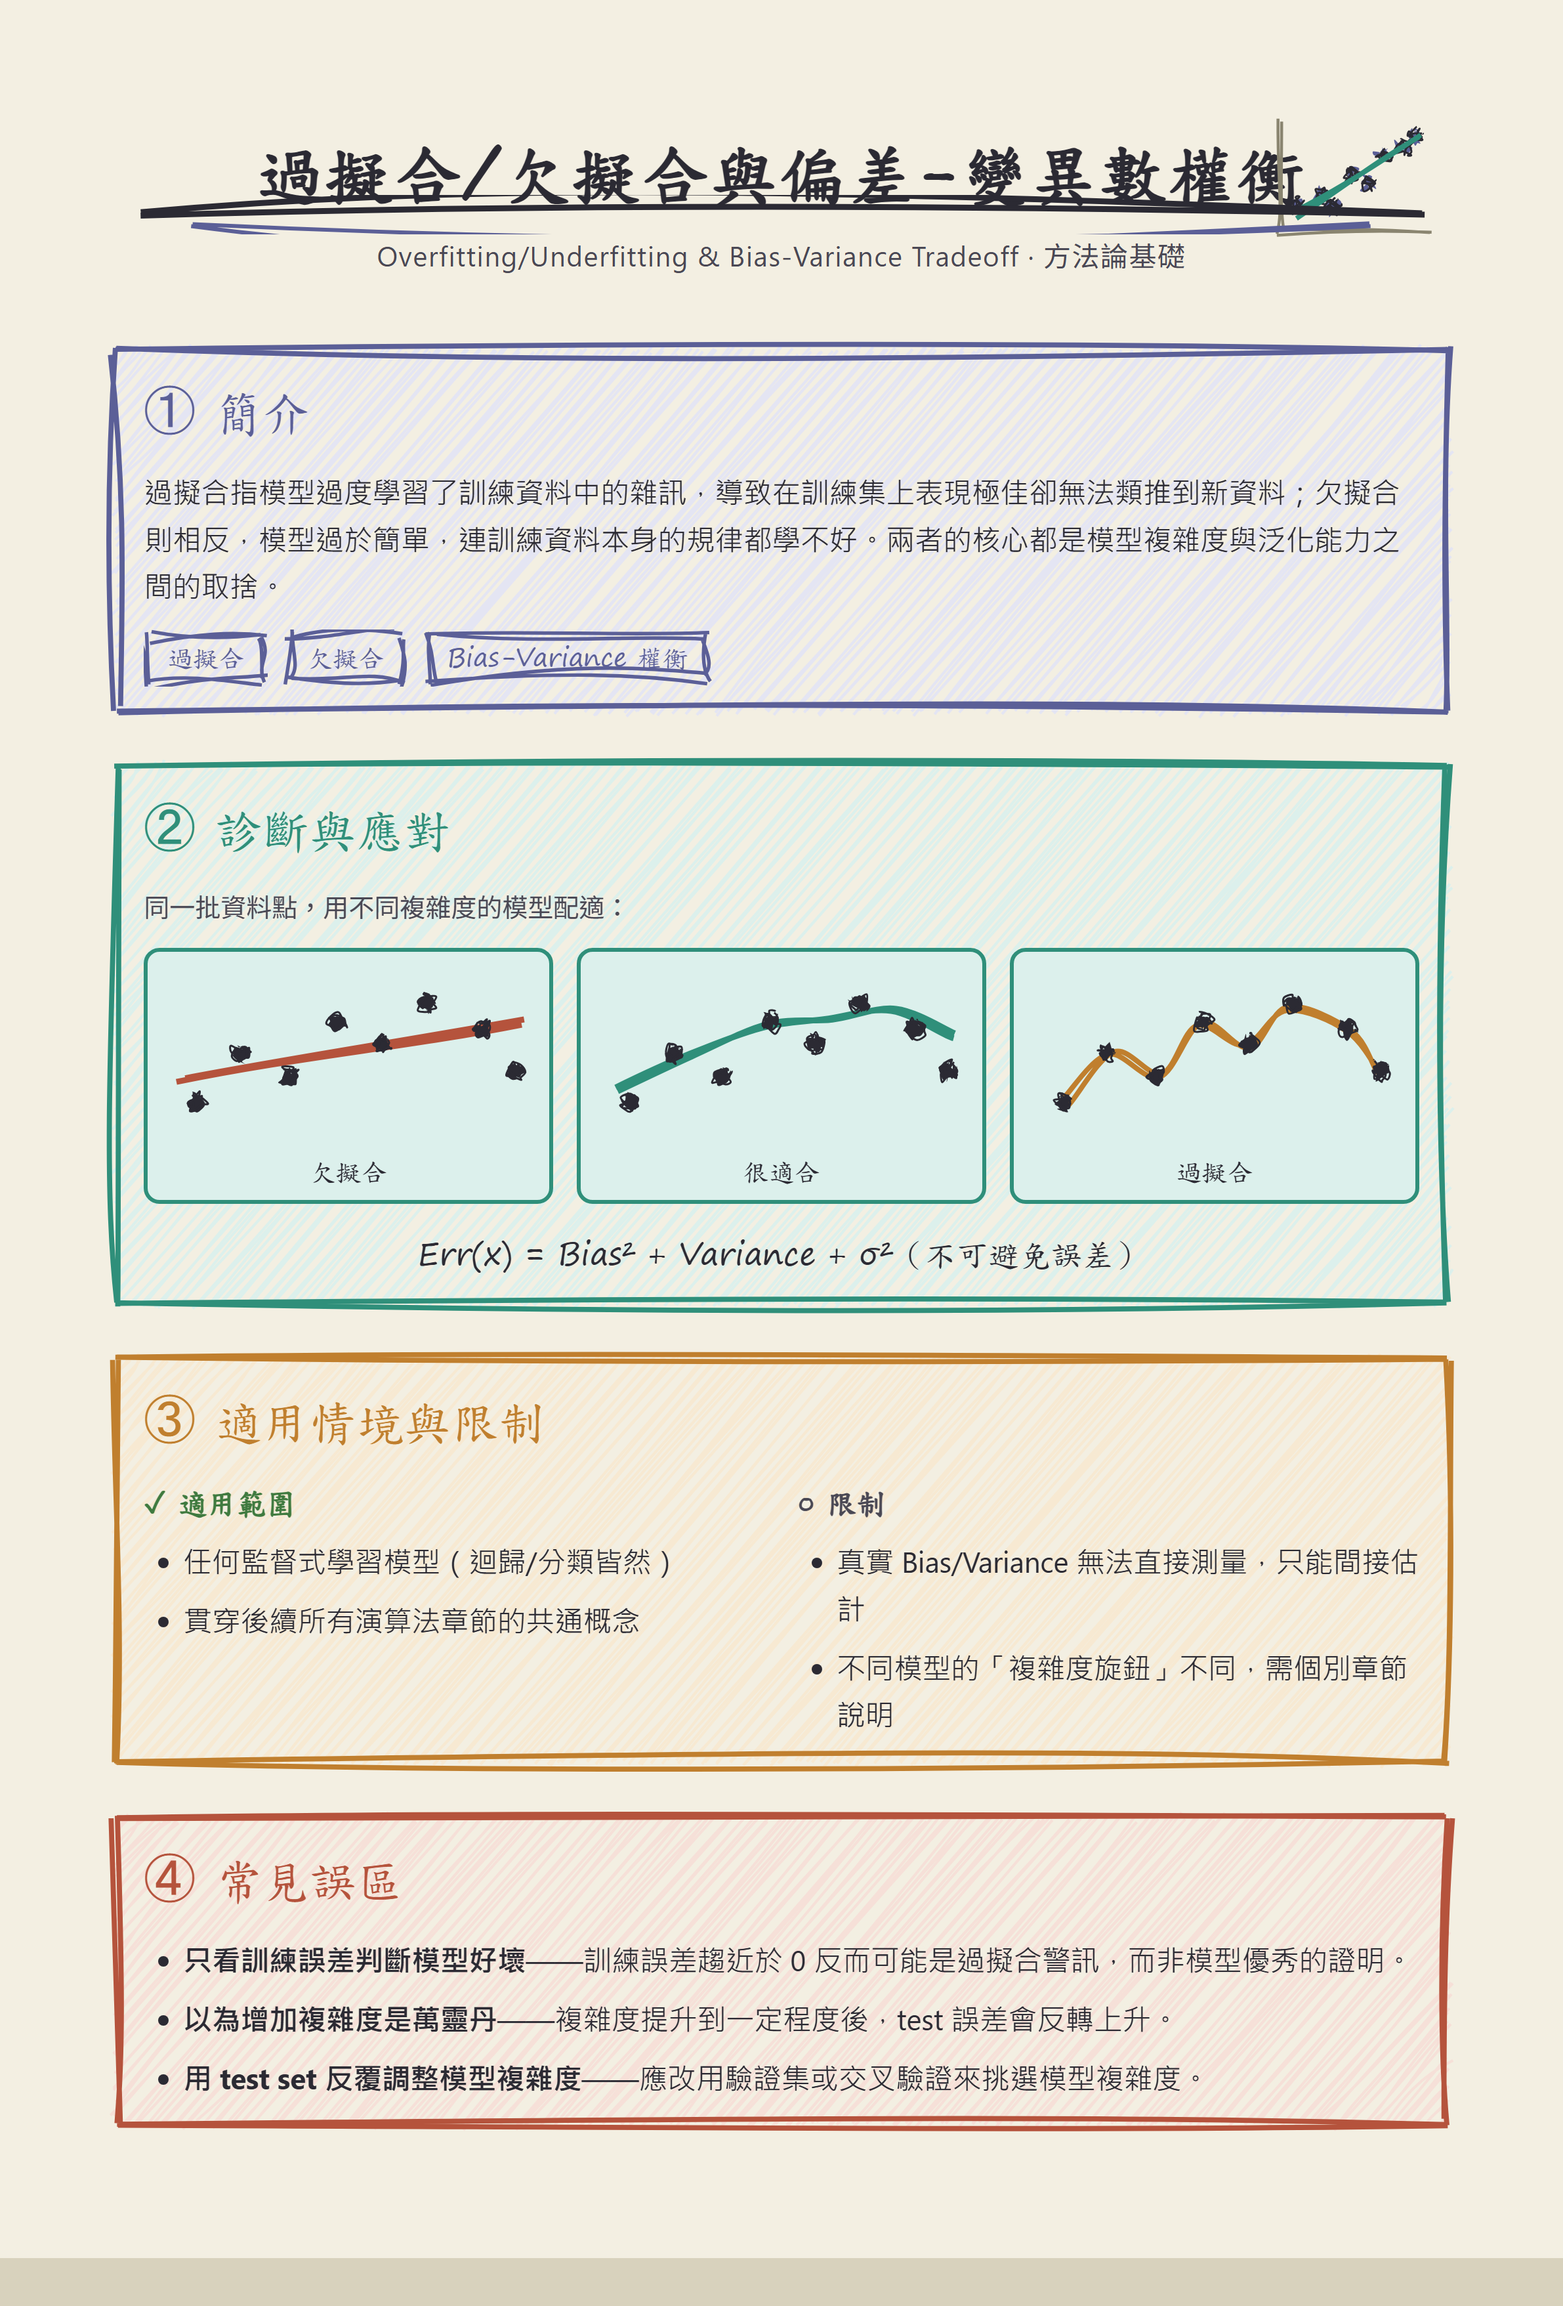
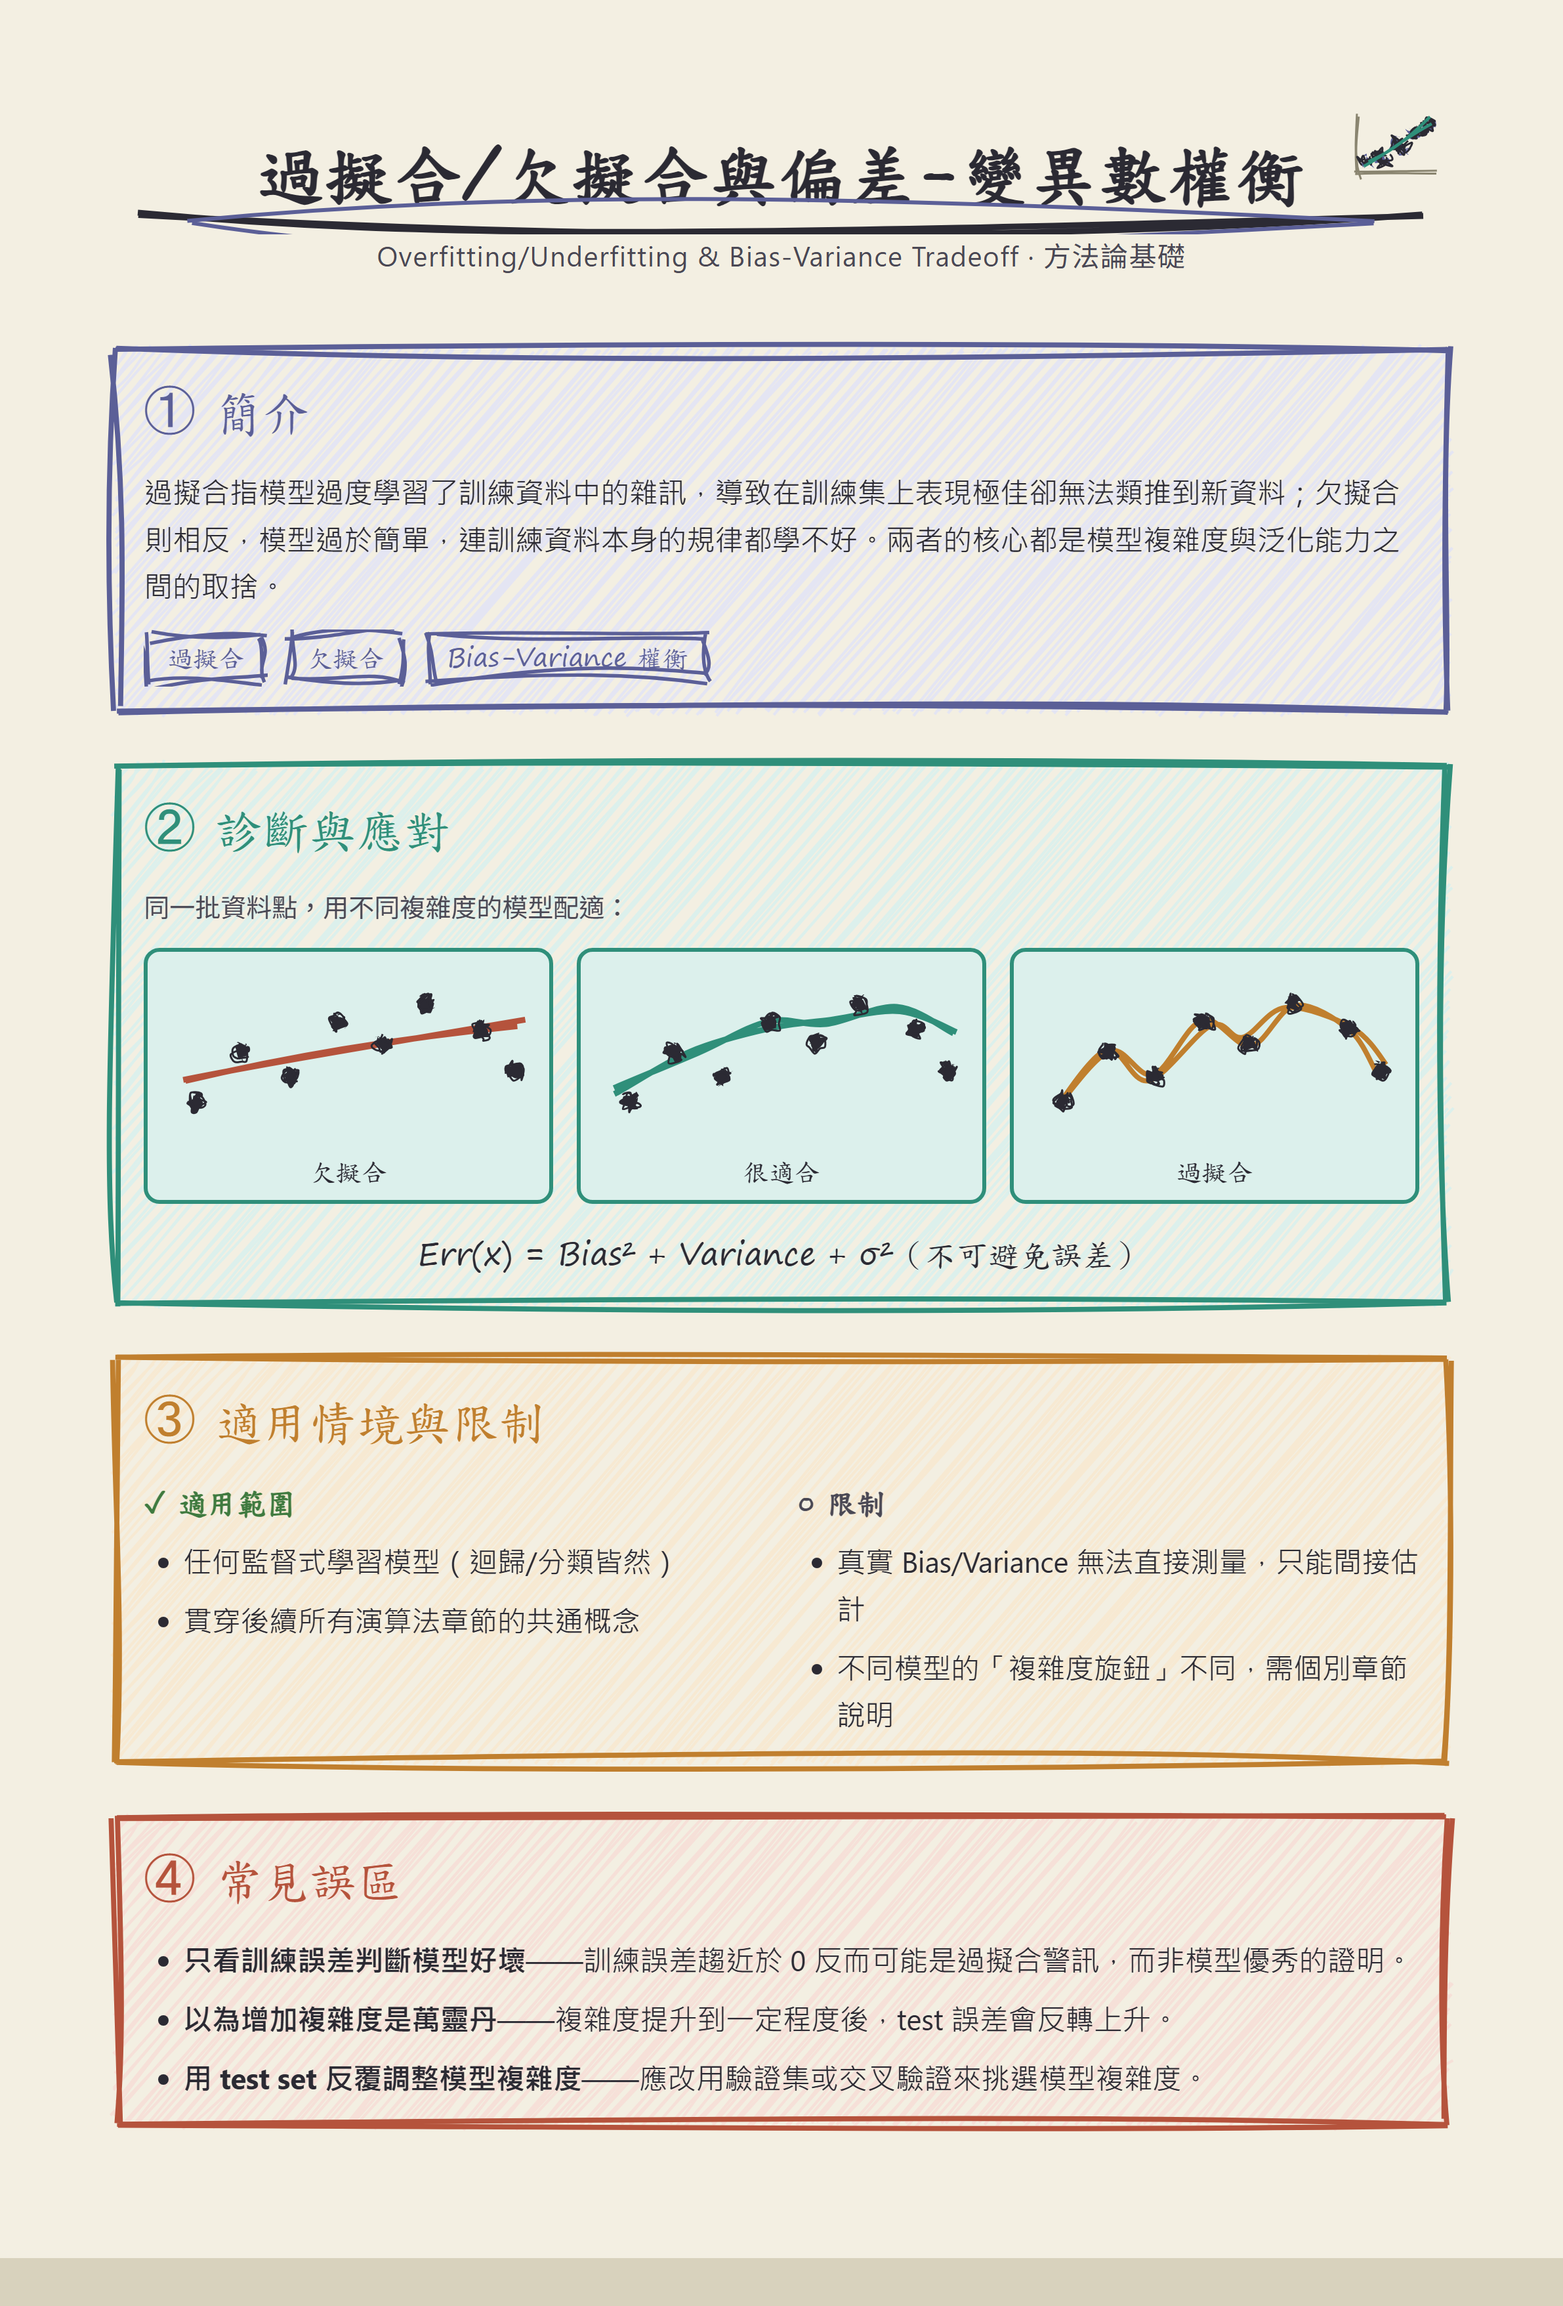
Fix doodle overlap with chapter title in overfitting/underfitting infographic
The .doodle corner decoration (position:absolute; right:6px; width:92px)
was copied verbatim from sibling infographics and overlapped the last
character ("衡") of this chapter's 16-character title — longer than any
prior chapter, so the fixed geometry that worked before no longer fit.

Shrunk .doodle from 92x72px to 50x39px (uniform ~0.54x scale) and
rescaled its hand-drawn axis/scatter/trend-line coordinates in the
inline script to match, preserving the original icon's proportions.
Title-underline width (already fixed to 660px) and rough-engine.js
are untouched. Re-rendered the PNG via the documented reversible
workflow (temp copy to main checkout, render, copy back, cleanup).

diff --git a/docs/specs/assets-src/overfitting-underfitting-bias-variance-summary.html b/docs/specs/assets-src/overfitting-underfitting-bias-variance-summary.html
@@ -69,8 +69,8 @@
       position: absolute;
       top: 2px;
       right: 6px;
-      width: 92px;
-      height: 72px;
+      width: 50px;
+      height: 39px;
     }
 
     .title-underline {
@@ -445,13 +445,13 @@
       var dctx = dd.getContext('2d');
       dctx.setTransform(dpr2, 0, 0, dpr2, 0, 0);
       var rc2 = rough.canvas(dd, {});
-      rc2.line(8, 62, 84, 62, { roughness: 1.4, stroke: '#8a8570', strokeWidth: 1.5 });
-      rc2.line(8, 62, 8, 8, { roughness: 1.4, stroke: '#8a8570', strokeWidth: 1.5 });
-      var pts = [[16,50],[28,44],[34,50],[44,34],[52,38],[60,24],[70,20],[76,14]];
+      rc2.line(4, 34, 46, 34, { roughness: 1.4, stroke: '#8a8570', strokeWidth: 1 });
+      rc2.line(4, 34, 4, 4, { roughness: 1.4, stroke: '#8a8570', strokeWidth: 1 });
+      var pts = [[9,27],[15,24],[18,27],[24,18],[28,21],[33,13],[38,11],[41,8]];
       pts.forEach(function (pt) {
-        rc2.circle(pt[0], pt[1], 5, { roughness: 2, fill: '#5b5f97', fillStyle: 'solid', stroke: '#2b2a33', strokeWidth: 1 });
+        rc2.circle(pt[0], pt[1], 3, { roughness: 2, fill: '#5b5f97', fillStyle: 'solid', stroke: '#2b2a33', strokeWidth: 1 });
       });
-      rc2.line(14, 54, 80, 12, { roughness: 1.6, bowing: 2, stroke: '#2f8f7a', strokeWidth: 2.5 });
+      rc2.line(8, 29, 43, 7, { roughness: 1.6, bowing: 1.2, stroke: '#2f8f7a', strokeWidth: 1.5 });
     }
   }
 
